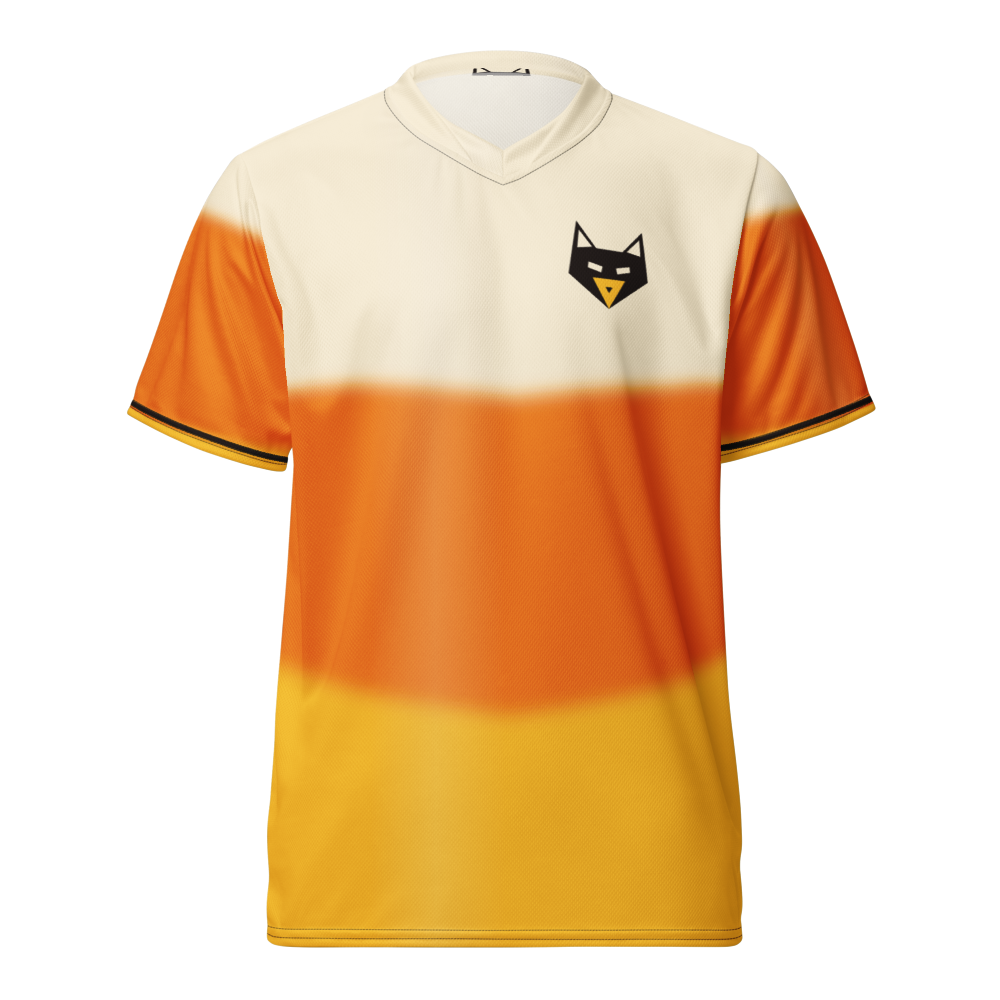
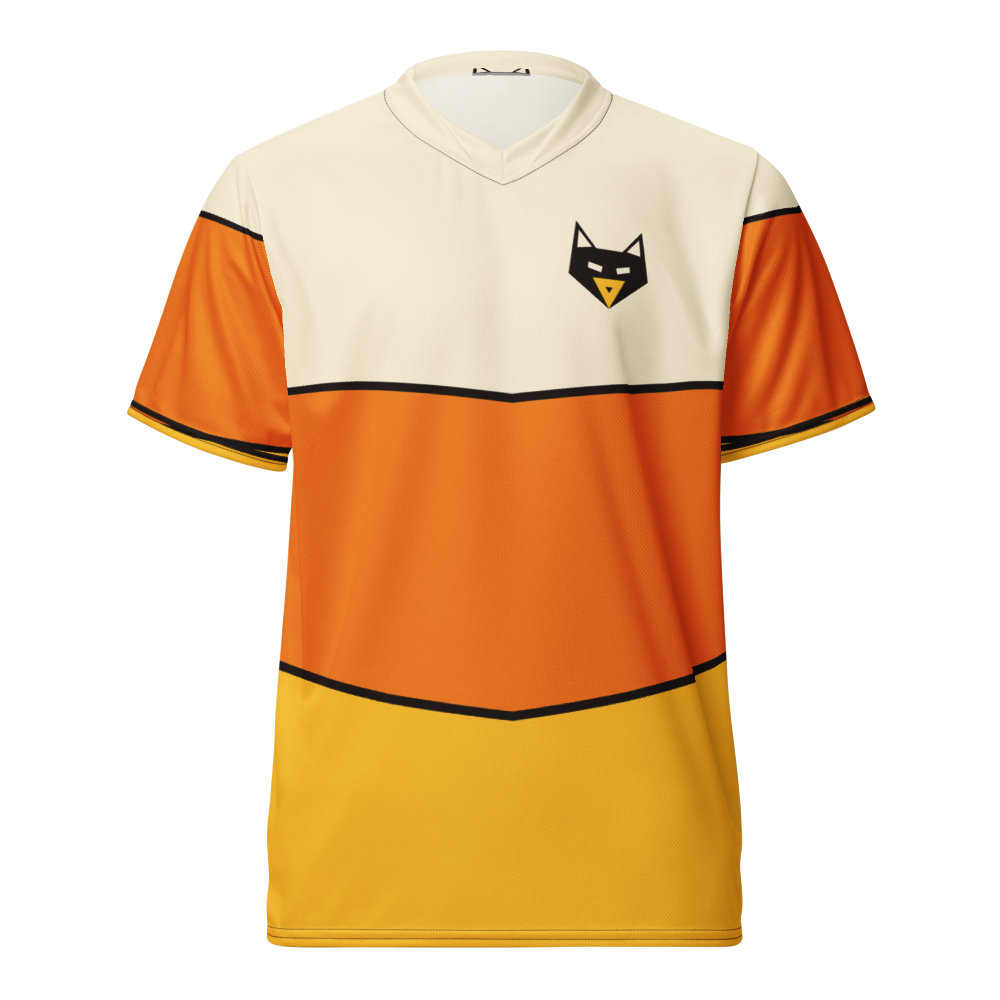
Cobweb and Candy Corn refinements: photos, copy, file revision 2

diff --git a/src/lib/productPages.ts b/src/lib/productPages.ts
@@ -149,8 +149,8 @@ export const PRODUCT_COPY: Record<string, string> = {
   '436883186': 'Foxy with "miss you too" underneath. Half of a pair with the Miss You sticker: send one, keep one.',
   '436883173': 'Foxy with "miss you" underneath. Half of a pair with the Miss You Too sticker: send one, keep one.',
   '436883154': 'A small Foxy on the chest, and an airmail envelope across the back over WORTH EVERY MILE. The hoodie to steal on a visit, and to send home smelling like you.',
-  '479940069': 'A black kit with one bone-white web spun out from an orange fox crest, and a little spider dropping in from the collar with a pink heart on its back. Orange cuffs, and an orange 143 on the back. For the Halloween you spend apart, or the one you finally spend together.',
-  '479940099': 'Cream at the chest, orange through the middle and sunny yellow at the hem, in soft chevrons that follow the V-neck, like a piece of candy corn. A black fox crest on the front and a black 143 on the back.',
+  '479940069': 'A black kit with one bone-white web spun out from an orange fox crest, and a sleek orange spider dropping in from the collar with a heart on its back. Orange cuffs, and an orange 143 on the back. For the Halloween you spend apart, or the one you finally spend together.',
+  '479940099': 'Cream at the chest, orange through the middle and sunny yellow at the hem, in crisp chevrons piped in black that follow the V-neck, like a piece of candy corn. A black fox crest on the front and a black 143 on the back.',
   '479940104': 'A Christmas jumper knitted into a football kit. Pine green with a knit texture, and a cream yoke across the chest where two foxes face a heart: the two of you, miles apart. Snowflakes and hearts run round the sleeves and the hem.',
   '479940112': 'A snowy night over a little log cabin, and a reindeer fox crest whose red nose lights the sleigh trail all the way home. Look closely by the cabin: Foxy is sitting in the snow, watching the sky for you.',
   '479940120': 'A glossy ceramic heart with Foxy in a Santa hat, holding a love letter. Add your two cities and it reads, say, NEW YORK ♥ LONDON, Christmas 2026. Leave them blank and it says Miles Apart, Close at Heart. The same design prints on both sides.',
